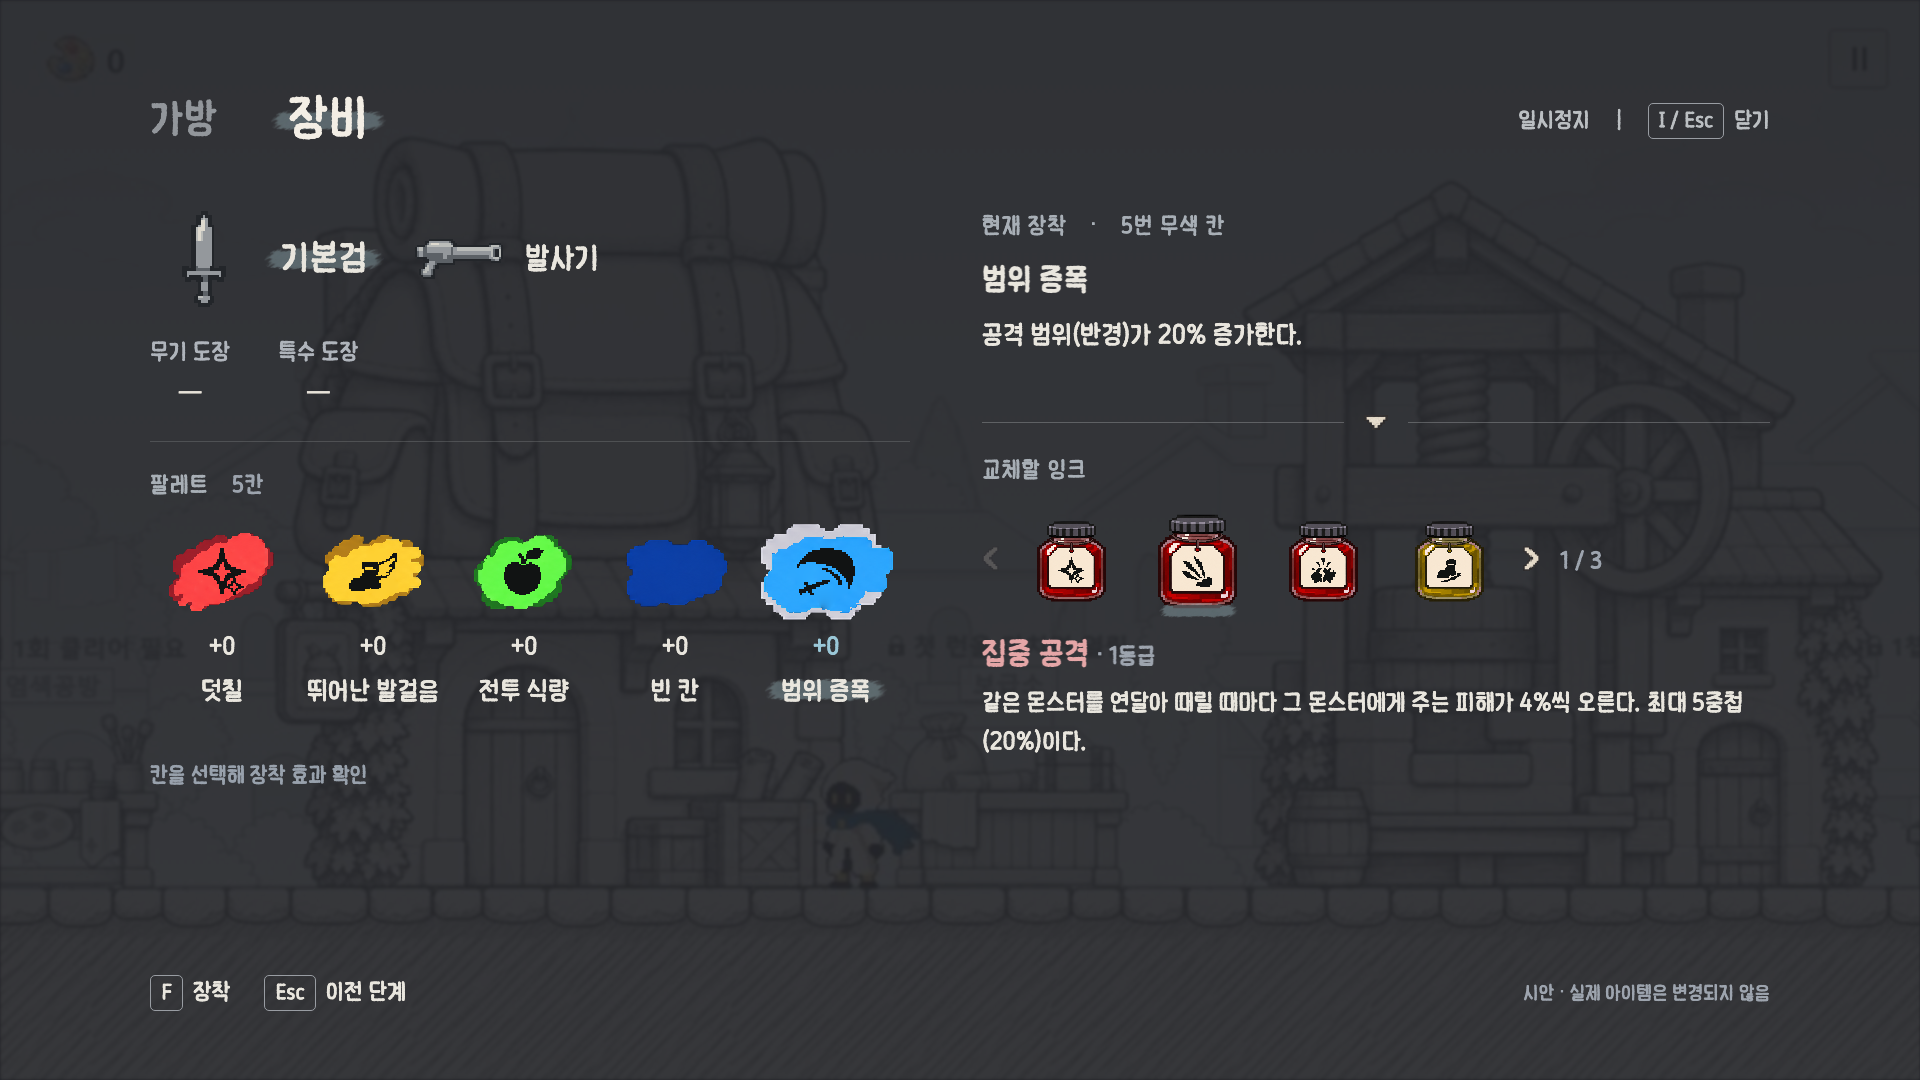
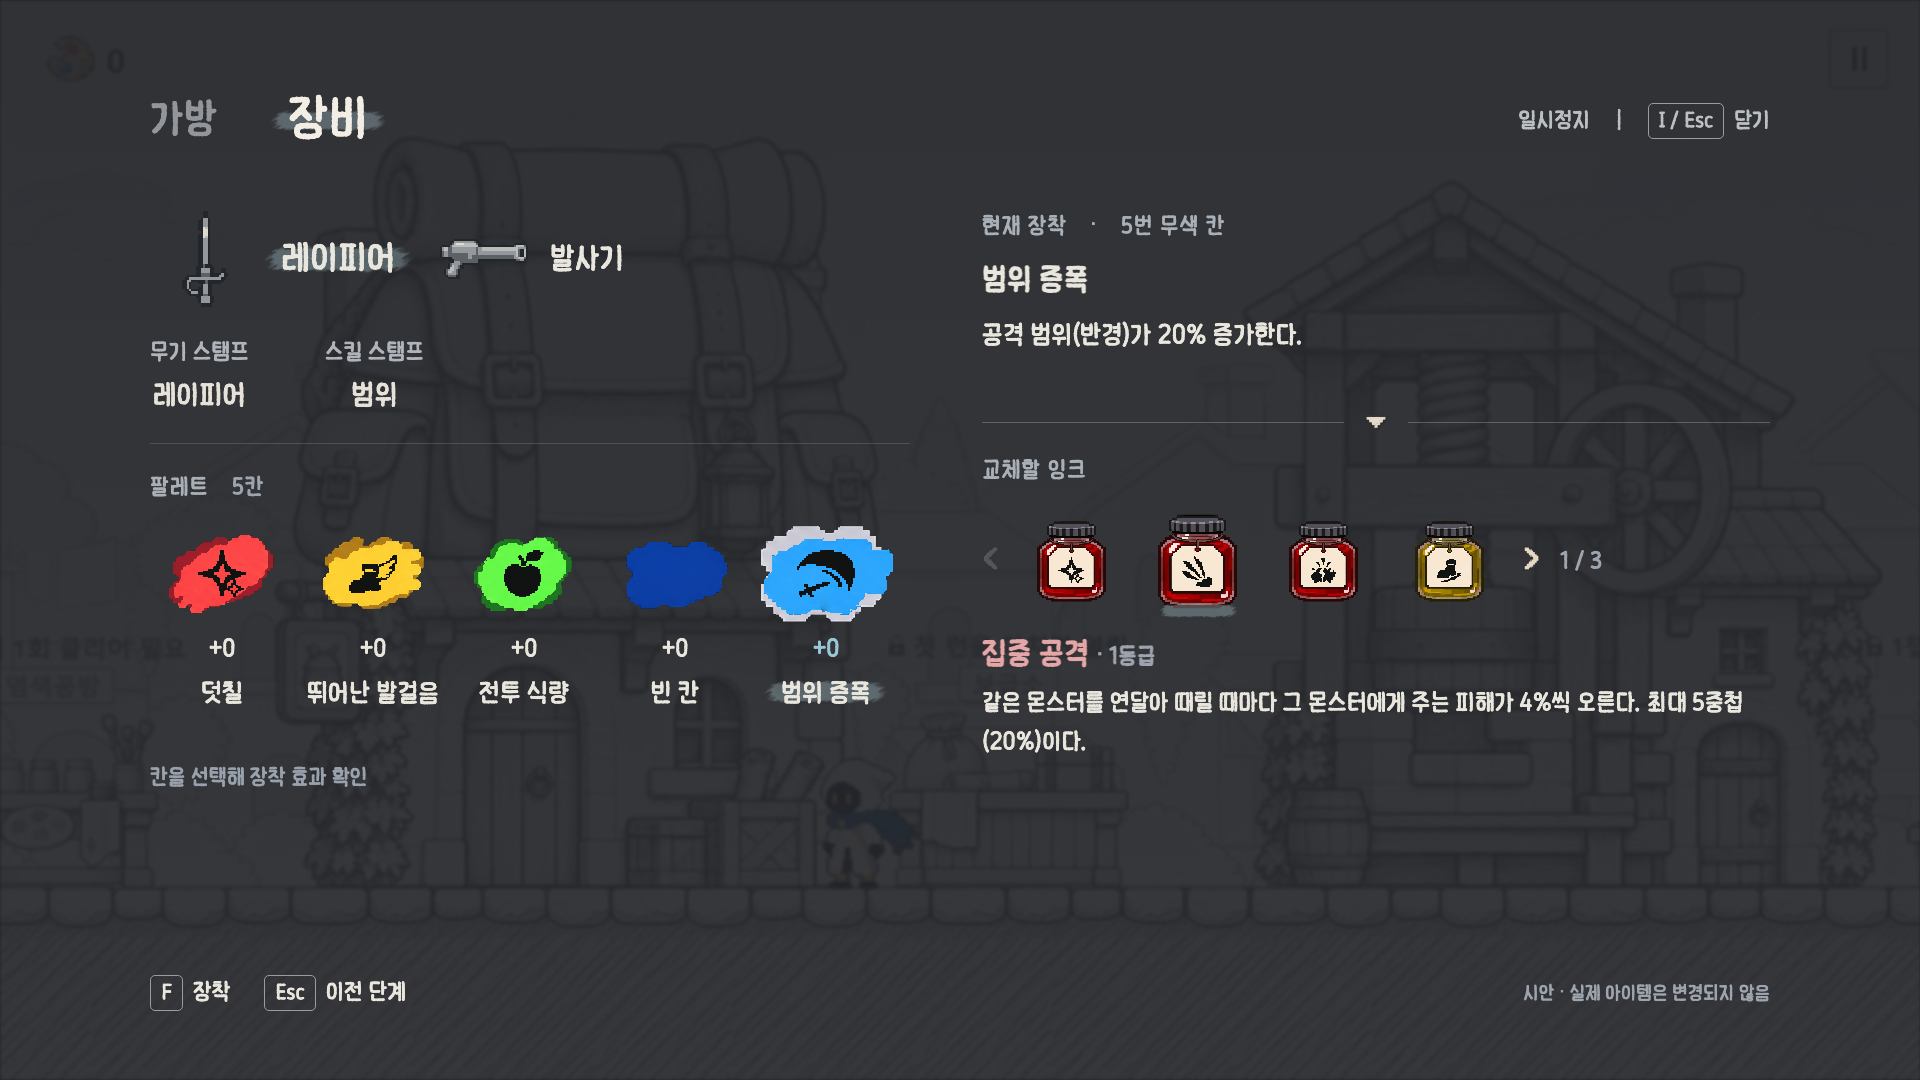
Show equipped weapon and skill stamp details

diff --git a/ui/work/theme/ink-pixel-v1/screen-set-v6/index.html b/ui/work/theme/ink-pixel-v1/screen-set-v6/index.html
@@ -62,11 +62,12 @@ header button.active{transform:scale(1.2)}
 
 /* Bag icons communicate selection through size only. */
 .grid .item.selected:after{display:none}
+.stamps{gap:76px}.stamps strong{font-family:inherit;font-size:30px;font-weight:normal}.stampTitle{color:#eee9df}.stampWeaponPreview{display:block;width:180px;height:120px;object-fit:contain;image-rendering:pixelated;margin:12px 0 24px}
 </style><div class="screen"><div class="world"></div><main><header><button id="bag">가방</button><button id="equip">장비</button><aside>일시정지　 |　 <kbd>I / Esc</kbd>닫기</aside></header><div id="content"></div></main><footer class="footer" id="footer"></footer></div><script>
-const data=[{"id": "ink3_red_01", "name": "덧칠", "color": "red", "description": "원공격 피해의 20%인 추가타 1회를 가한다."}, {"id": "ink3_red_02", "name": "집중 공격", "color": "red", "description": "같은 몬스터를 연달아 때릴 때마다 그 몬스터에게 주는 피해가 4%씩 오른다. 최대 5중첩(20%)이다."}, {"id": "ink3_red_04", "name": "터지는 잉크", "color": "red", "description": "표식을 터트린 몬스터에게 기준 피해 60%인 추가타 1회를 가한다."}, {"id": "ink3_yellow_01", "name": "전기 발자국", "color": "yellow", "description": "1.5unit 이동할 때마다 발밑에 작은 전기장(반경 0.75)을 2초간 남긴다. 전기장 안의 몬스터는 0.5초마다 기준 피해 15%를 받는다."}, {"id": "ink3_yellow_02", "name": "뛰어난 발걸음", "color": "yellow", "description": "공격 속도와 이동 속도가 각각 10% 증가한다."}, {"id": "ink3_green_04", "name": "전투 식량", "color": "green", "description": "몬스터를 5마리 처치할 때마다 체력 6을 회복한다."}, {"id": "ink3_green_01", "name": "든든한 배리어", "color": "green", "description": "보호막이 남아 있는 동안 공격 피해가 20% 증가한다."}, {"id": "ink3_blue_01", "name": "범위 증폭", "color": "blue", "description": "공격 범위(반경)가 20% 증가한다."}, {"id": "ink3_blue_02", "name": "교대 타격", "color": "blue", "description": "이 잉크를 낀 무기에서 다른 무기로 바꾸면, 바꿔 든 무기 특수 스킬의 남은 쿨타임이 1초 줄어든다. 이 잉크를 낀 무기의 쿨타임은 줄지 않는다."}, {"id": "ink3_purple_01", "name": "먹물 늪", "color": "purple", "description": "몬스터를 0.8초 속박하고, 속박을 걸 때 기준 피해 30%를 준다."}, {"id": "ink3_purple_05", "name": "사약", "color": "purple", "description": "몬스터를 3초간 중독시켜 0.5초마다 기준 피해 8%를 준다. 다시 맞히면 지속시간만 갱신한다."}, {"id": "ink3_purple_07", "name": "쪽빛 족쇄", "color": "purple", "description": "남색 표식이 터질 때 몬스터를 0.6초 속박하고, 속박을 걸 때 기준 피해 20%를 준다."}];let view=new URLSearchParams(location.search).get('view')||'bag',selected=new URLSearchParams(location.search).has('view')&&new URLSearchParams(location.search).get('view')==='equipment'?1:0,slot=Number(new URLSearchParams(location.search).get('slot')||0),page=0,weapon=0,category=Number(new URLSearchParams(location.search).get('category')||0),stamp='';const colors={red:'#e5a6a7',yellow:'#e0cc83',green:'#a9d797',blue:'#97c7e9',purple:'#c7a6df'};let equipped=['ink3_red_01','ink3_yellow_02','ink3_green_04',null,'ink3_blue_01'];const slotColors=['red','yellow','green','blue','neutral'];
+const data=[{"id": "ink3_red_01", "name": "덧칠", "color": "red", "description": "원공격 피해의 20%인 추가타 1회를 가한다."}, {"id": "ink3_red_02", "name": "집중 공격", "color": "red", "description": "같은 몬스터를 연달아 때릴 때마다 그 몬스터에게 주는 피해가 4%씩 오른다. 최대 5중첩(20%)이다."}, {"id": "ink3_red_04", "name": "터지는 잉크", "color": "red", "description": "표식을 터트린 몬스터에게 기준 피해 60%인 추가타 1회를 가한다."}, {"id": "ink3_yellow_01", "name": "전기 발자국", "color": "yellow", "description": "1.5unit 이동할 때마다 발밑에 작은 전기장(반경 0.75)을 2초간 남긴다. 전기장 안의 몬스터는 0.5초마다 기준 피해 15%를 받는다."}, {"id": "ink3_yellow_02", "name": "뛰어난 발걸음", "color": "yellow", "description": "공격 속도와 이동 속도가 각각 10% 증가한다."}, {"id": "ink3_green_04", "name": "전투 식량", "color": "green", "description": "몬스터를 5마리 처치할 때마다 체력 6을 회복한다."}, {"id": "ink3_green_01", "name": "든든한 배리어", "color": "green", "description": "보호막이 남아 있는 동안 공격 피해가 20% 증가한다."}, {"id": "ink3_blue_01", "name": "범위 증폭", "color": "blue", "description": "공격 범위(반경)가 20% 증가한다."}, {"id": "ink3_blue_02", "name": "교대 타격", "color": "blue", "description": "이 잉크를 낀 무기에서 다른 무기로 바꾸면, 바꿔 든 무기 특수 스킬의 남은 쿨타임이 1초 줄어든다. 이 잉크를 낀 무기의 쿨타임은 줄지 않는다."}, {"id": "ink3_purple_01", "name": "먹물 늪", "color": "purple", "description": "몬스터를 0.8초 속박하고, 속박을 걸 때 기준 피해 30%를 준다."}, {"id": "ink3_purple_05", "name": "사약", "color": "purple", "description": "몬스터를 3초간 중독시켜 0.5초마다 기준 피해 8%를 준다. 다시 맞히면 지속시간만 갱신한다."}, {"id": "ink3_purple_07", "name": "쪽빛 족쇄", "color": "purple", "description": "남색 표식이 터질 때 몬스터를 0.6초 속박하고, 속박을 걸 때 기준 피해 20%를 준다."}];let view=new URLSearchParams(location.search).get('view')||'bag',selected=new URLSearchParams(location.search).has('view')&&new URLSearchParams(location.search).get('view')==='equipment'?1:0,slot=Number(new URLSearchParams(location.search).get('slot')||0),page=0,weapon=0,category=Number(new URLSearchParams(location.search).get('category')||0),stamp=new URLSearchParams(location.search).get('stamp')||'';const hasStamps=new URLSearchParams(location.search).get('stamps')!=='empty';const colors={red:'#e5a6a7',yellow:'#e0cc83',green:'#a9d797',blue:'#97c7e9',purple:'#c7a6df'};let equipped=['ink3_red_01','ink3_yellow_02','ink3_green_04',null,'ink3_blue_01'];const slotColors=['red','yellow','green','blue','neutral'];
 function item(d,idx,active){return `<button class="item ${active?'selected':''}" aria-label="${d.name}" onclick="selected=${idx};render()"><img src="assets/${d.id}-jar.png" alt="${d.name}"></button>`}
 function render(){bag.className=view==='bag'?'active swash':'';equip.className=view==='equipment'?'active swash':'';if(new URLSearchParams(location.search).get('stress')==='long'&&view==='bag')selected=8;let d=data[selected];document.documentElement.style.setProperty('--ink',colors[d.color]);
 if(view==='bag'){content.innerHTML=`<div class="columns"><section><nav class="tabs">${['전체 12','색·능력치 12/15','형태 0/15','특수 0/15'].map((x,i)=>`<button class="${i===category?'active swash':''}" onclick="category=${i};render()">${x}</button>`).join('')}</nav>${category<2?`<div class="grid">${data.map((x,i)=>item(x,i,i===selected)).join('')}</div><div class="bagcount">보유 12개　·　카테고리별 보관</div>`:'<div class="empty">보유한 도장이 없습니다</div>'}</section><section class="detail">${category<2?`<div class="label">선택한 잉크</div><div class="detailHero"><img src="assets/${d.id}-jar.png"><div><h1 class="title">${d.name}</h1><p class="muted small">색상 잉크 · 1등급</p></div></div><div class="rule"></div><p>${d.description}</p><p class="muted small">${d.id==='ink3_red_01'?'재발동 간격 0.25초':''}</p><div class="hint">장착과 교체는 장비 탭에서</div>`:''}</section></div>`;footer.innerHTML='<span><kbd>X</kbd>버리기</span><span><kbd>X</kbd>3초 눌러 파괴</span><span class="muted">짧게 누르기 / 길게 누르기</span>';
-}else{let current=data.find(x=>x.id===equipped[slot]);let sc=slotColors[slot];let candidates=data.map((x,i)=>({...x,index:i})).filter(x=>sc==='neutral'||x.color===sc);if(!candidates.some(x=>x.index===selected)){selected=candidates[0].index;d=data[selected]}document.documentElement.style.setProperty('--ink',colors[d.color]);let visible=candidates.slice(page*4,page*4+4);if(!visible.length){page=0;visible=candidates.slice(0,4)}content.innerHTML=`<div class="columns"><section><div class="weapons"><button onclick="weapon=0;render()" class="${weapon===0?'swash':''}"><img src="assets/weapon-base_sword.png"><span class="weaponName">기본검</span></button><button onclick="weapon=1;render()" class="${weapon===1?'swash':''}"><img src="assets/weapon-launcher.png"><span class="weaponName">발사기</span></button></div><div class="stamps"><button class="${stamp==='무기'?'selectedStamp':''}" onclick="stamp='무기';render()"><span class="stampName">무기 도장</span><strong>—</strong></button><button class="${stamp==='특수'?'selectedStamp':''}" onclick="stamp='특수';render()"><span class="stampName">특수 도장</span><strong>—</strong></button></div><div class="rule"></div><div class="label">팔레트　<span class="muted small">5칸</span></div><div class="slots">${slotColors.map((c,i)=>{let id=equipped[i], ink=data.find(x=>x.id===id);return `<button class="slot ${slot===i&&!stamp?'focus':''}" onclick="slot=${i};page=0;stamp='';render()"><div class="layers"><img src="assets/${id?(c==='neutral'?'neutral-filled-':'filled-')+ink.color:'empty-'+c}.png">${id?`<img src="assets/${id}.png">`:''}</div><span>+0</span><strong class="slotname">${data.find(x=>x.id===id)?.name||'빈 칸'}</strong></button>`}).join('')}</div><div class="hint">칸을 선택해 장착 효과 확인</div></section><section>${stamp?`<div class="label">${stamp} 도장</div><h2 class="title">장착된 도장 없음</h2><p>—</p><div class="hint">도장 선택 시 설명을 보여주는 자리</div>`:`<div class="current"><div class="label">현재 장착　·　${slot+1}번 ${sc==='neutral'?'무색':''} 칸</div><h2>${current?.name||'—'}</h2><p>${current?.description||'장착된 잉크 없음'}</p></div><div class="transition"><img src="assets/transition-down.png" alt="교체 방향"></div><div class="label">교체할 잉크</div><div class="candidateRow"><button class="arrow" aria-label="이전 잉크" onclick="movePage(-1)" ${page===0?'disabled':''}><img src="assets/chevron-left.png" alt="이전"></button>${visible.map(x=>item(x,x.index,x.index===selected)).join('')}<button class="arrow" aria-label="다음 잉크" onclick="movePage(1)" ${(page+1)*4>=candidates.length?'disabled':''}><img src="assets/chevron-right.png" alt="다음"></button><span class="muted small">${page+1} / ${Math.ceil(candidates.length/4)}</span></div><div class="candidateDetail"><h2>${d.name} <span class="muted small">· 1등급</span></h2><p>${d.description}</p></div>`}</section></div>`;footer.innerHTML='<span><kbd>F</kbd>장착</span><span><kbd>Esc</kbd>이전 단계</span><span class="muted">시안 · 실제 아이템은 변경되지 않음</span>'}}
+}else{let current=data.find(x=>x.id===equipped[slot]);let sc=slotColors[slot];let candidates=data.map((x,i)=>({...x,index:i})).filter(x=>sc==='neutral'||x.color===sc);if(!candidates.some(x=>x.index===selected)){selected=candidates[0].index;d=data[selected]}document.documentElement.style.setProperty('--ink',colors[d.color]);let visible=candidates.slice(page*4,page*4+4);if(!visible.length){page=0;visible=candidates.slice(0,4)}content.innerHTML=`<div class="columns"><section><div class="weapons"><button onclick="weapon=0;render()" class="${weapon===0?'swash':''}"><img src="assets/weapon-${hasStamps?'rapier':'base_sword'}.png"><span class="weaponName">${hasStamps?'레이피어':'기본검'}</span></button><button onclick="weapon=1;render()" class="${weapon===1?'swash':''}"><img src="assets/weapon-launcher.png"><span class="weaponName">발사기</span></button></div><div class="stamps"><button class="${stamp==='무기'?'selectedStamp':''}" onclick="stamp='무기';render()"><span class="stampName">무기 스탬프</span><strong>${hasStamps&&weapon===0?'레이피어':'—'}</strong></button><button class="${stamp==='특수'?'selectedStamp':''}" onclick="stamp='특수';render()"><span class="stampName">스킬 스탬프</span><strong>${hasStamps&&weapon===0?'범위':'—'}</strong></button></div><div class="rule"></div><div class="label">팔레트　<span class="muted small">5칸</span></div><div class="slots">${slotColors.map((c,i)=>{let id=equipped[i], ink=data.find(x=>x.id===id);return `<button class="slot ${slot===i&&!stamp?'focus':''}" onclick="slot=${i};page=0;stamp='';render()"><div class="layers"><img src="assets/${id?(c==='neutral'?'neutral-filled-':'filled-')+ink.color:'empty-'+c}.png">${id?`<img src="assets/${id}.png">`:''}</div><span>+0</span><strong class="slotname">${data.find(x=>x.id===id)?.name||'빈 칸'}</strong></button>`}).join('')}</div><div class="hint">칸을 선택해 장착 효과 확인</div></section><section>${stamp?`<div class="label">현재 장착 · ${stamp==='무기'?'무기':'스킬'} 스탬프</div>${hasStamps&&weapon===0?`<h2 class="title stampTitle">${stamp==='무기'?'레이피어':'범위'}</h2>${stamp==='무기'?'<img class="stampWeaponPreview" src="assets/weapon-rapier.png" alt="레이피어">':''}<p>${stamp==='무기'?'검 도면의 무기 형태를 레이피어로 바꿉니다. 기본 공격과 기본 특수 공격도 해당 형태로 변경됩니다.':'현재 무기의 특수 공격을 범위 변형으로 바꿉니다. 무기 형태를 바꿔도 범위 변형은 유지됩니다.'}</p><div class="rule"></div><div class="label">${stamp==='무기'?'함께 적용 중인 스킬 스탬프':'적용 중인 무기 형태'}</div><p>${stamp==='무기'?'범위':'레이피어'}</p><div class="hint">스탬프 교체는 정비소에서</div>`:'<h2 class="title">장착된 스탬프 없음</h2><p>—</p><div class="hint">스탬프 장착은 정비소에서</div>'}`:`<div class="current"><div class="label">현재 장착　·　${slot+1}번 ${sc==='neutral'?'무색':''} 칸</div><h2>${current?.name||'—'}</h2><p>${current?.description||'장착된 잉크 없음'}</p></div><div class="transition"><img src="assets/transition-down.png" alt="교체 방향"></div><div class="label">교체할 잉크</div><div class="candidateRow"><button class="arrow" aria-label="이전 잉크" onclick="movePage(-1)" ${page===0?'disabled':''}><img src="assets/chevron-left.png" alt="이전"></button>${visible.map(x=>item(x,x.index,x.index===selected)).join('')}<button class="arrow" aria-label="다음 잉크" onclick="movePage(1)" ${(page+1)*4>=candidates.length?'disabled':''}><img src="assets/chevron-right.png" alt="다음"></button><span class="muted small">${page+1} / ${Math.ceil(candidates.length/4)}</span></div><div class="candidateDetail"><h2>${d.name} <span class="muted small">· 1등급</span></h2><p>${d.description}</p></div>`}</section></div>`;footer.innerHTML=(stamp?'':'<span><kbd>F</kbd>장착</span>')+'<span><kbd>Esc</kbd>이전 단계</span><span class="muted">시안 · 실제 아이템은 변경되지 않음</span>'}}
 function movePage(delta){page+=delta;let c=slotColors[slot];let a=data.map((x,i)=>({...x,index:i})).filter(x=>c==='neutral'||x.color===c);selected=a[page*4].index;render()}bag.onclick=()=>{view='bag';render()};equip.onclick=()=>{view='equipment';selected=1;render()};function fit(){document.querySelector('.screen').style.transform=`scale(${Math.min(innerWidth/1920,innerHeight/1080)})`}onresize=fit;fit();render();
 </script></html>

diff --git a/ui/work/theme/ink-pixel-v1/screen-set-v6/README.md b/ui/work/theme/ink-pixel-v1/screen-set-v6/README.md
@@ -12,3 +12,6 @@
 동일 selection-wash-v1.png를 복사해 탭/무기 이름/팔레트 이름/잉크병 하단/도장 이름에 사용. 탭 120%, 무기 115%, 도장 110%, 잉크병 90→105%, 팔레트 80→100%. 탭과 무기 간격 확대. 기존 팔레트 밑줄 제거, 효과명 뒤에 질감 표시. 실제 아이템 변경 및 Unity 적용 없음.
 
 가방 잉크 목록은 아이콘 확대만 사용하며 하단 선택 질감은 제거. 장비의 교체 잉크 및 다른 선택 표현은 유지.
+
+## 장착된 스탬프 상태
+기본 예시: 무기1 레이피어 + 범위 스킬 스탬프. 무기2는 미장착. ?view=equipment&stamp=무기 / stamp=특수 로 각각 설명 표시, &stamps=empty 로 빈 상태. 현재 선택 이름과 형태 아이콘을 표시하며 별도 스탬프 전용 아이콘 제작은 포함하지 않는다. 실제 전투 수치 대신 docs/design/systems/ink-blueprint-proposal.md의 형태/변형 역할 설명 사용. 교체는 정비소 전용이므로 스탬프 열람 상태의 F 장착 안내 제거. 기존 공용 가방 카테고리 등 구형 규칙 정리는 별도 과제.
